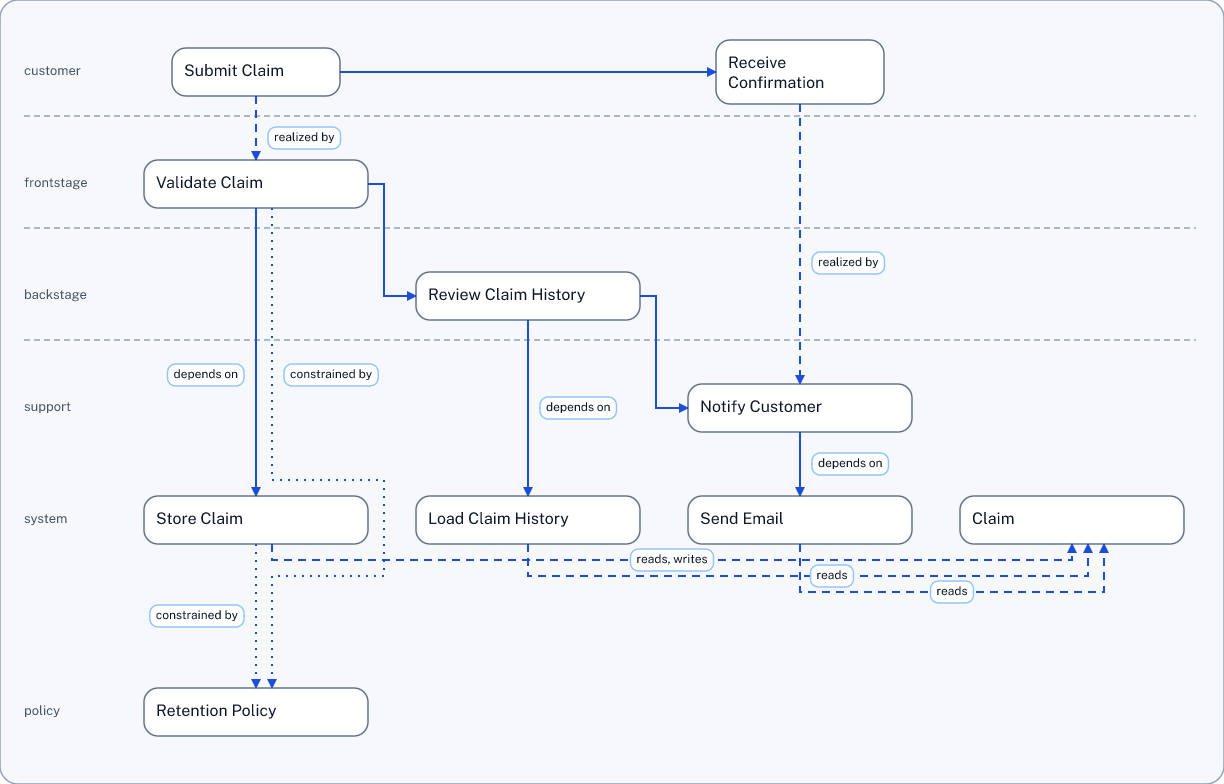
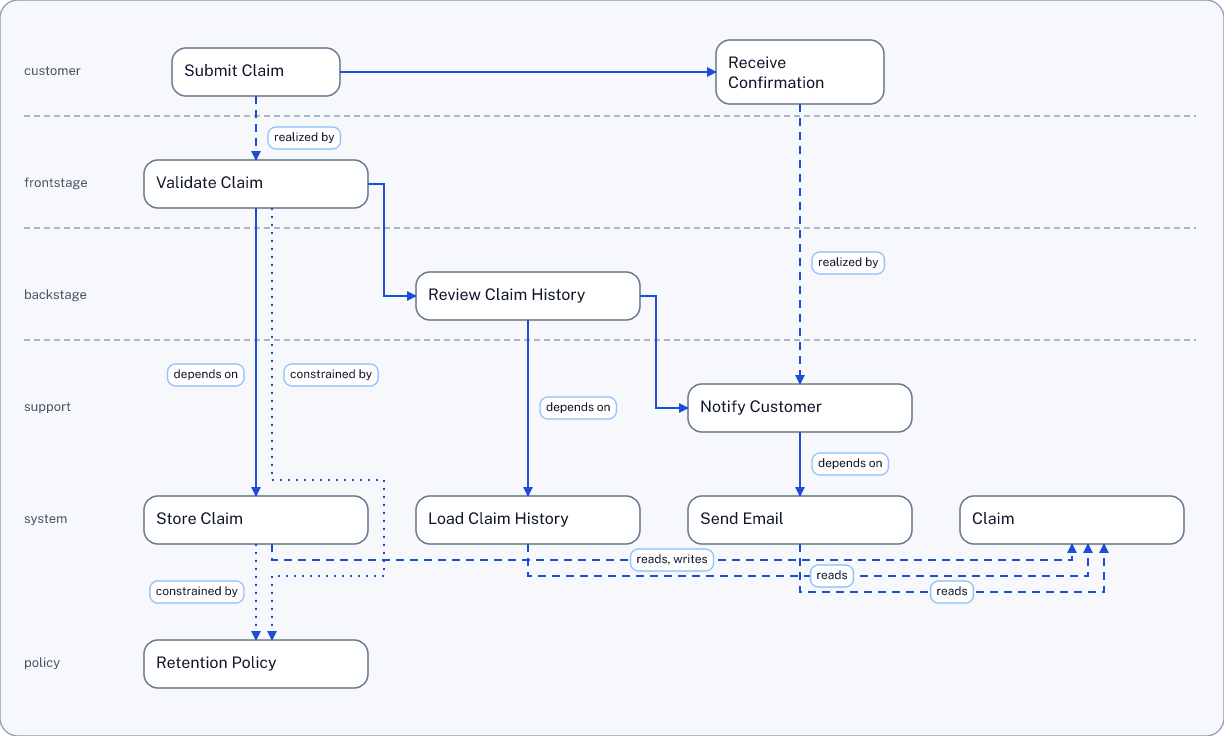
Fixed gutter spacing bug

diff --git a/src/renderer/staged/serviceBlueprintRouting.ts b/src/renderer/staged/serviceBlueprintRouting.ts
@@ -1533,6 +1533,38 @@ function buildGutterRects(
   return rects;
 }
 
+function resolveExpandedBundleLimit(
+  rect: GutterRect,
+  index: PositionedBlueprintIndex,
+  globalGutterState: ServiceBlueprintGlobalGutterState
+): number {
+  if (rect.kind === "node_bottom" && rect.laneOrder !== undefined) {
+    const nextRowTop = getNextValue(index.rowTopByOrder, rect.laneOrder);
+    if (nextRowTop !== undefined) {
+      return roundMetric(nextRowTop);
+    }
+    return roundMetric(
+      (index.rowBottomByOrder.get(rect.laneOrder) ?? (rect.y + rect.height))
+      + (globalGutterState.laneExpansions[rect.laneOrder] ?? 0)
+    );
+  }
+
+  if (rect.kind === "node_right" && rect.columnOrder !== undefined) {
+    const nextColumnLeft = getNextValue(index.columnLeftByOrder, rect.columnOrder);
+    if (nextColumnLeft !== undefined) {
+      return roundMetric(nextColumnLeft);
+    }
+    return roundMetric(
+      (index.columnRightByOrder.get(rect.columnOrder) ?? (rect.x + rect.width))
+      + (globalGutterState.columnExpansions[rect.columnOrder] ?? 0)
+    );
+  }
+
+  return rect.kind === "node_bottom"
+    ? roundMetric(rect.y + rect.height)
+    : roundMetric(rect.x + rect.width);
+}
+
 function buildGutterOccupancyForIntersection(
   connectorId: string,
   segment: RouteSegmentDetail,
@@ -3045,7 +3077,7 @@ function buildGutterLocalBundleResolution(
       }
 
       if (rect.kind === "node_bottom" && claim.laneOrder !== undefined) {
-        const availableLimit = roundMetric(rect.y + rect.height);
+        const availableLimit = resolveExpandedBundleLimit(rect, index, globalGutterState);
         const overflow = roundMetric(assignedCoordinate - availableLimit);
         if (overflow > 0) {
           requiredLaneExpansions[claim.laneOrder] = roundUpToSeparationDistance(
@@ -3054,7 +3086,7 @@ function buildGutterLocalBundleResolution(
         }
       }
       if (rect.kind === "node_right" && claim.columnOrder !== undefined) {
-        const availableLimit = roundMetric(rect.x + rect.width);
+        const availableLimit = resolveExpandedBundleLimit(rect, index, globalGutterState);
         const overflow = roundMetric(assignedCoordinate - availableLimit);
         if (overflow > 0) {
           requiredColumnExpansions[claim.columnOrder] = roundUpToSeparationDistance(

diff --git a/tests/stagedServiceBlueprint.spec.ts b/tests/stagedServiceBlueprint.spec.ts
@@ -469,7 +469,8 @@ describe("staged service_blueprint", () => {
     );
     const step3Sa020 = findNestedPositionedItem(routingDebug.step3PositionedScene.root.children, "SA-020");
     const finalSa020Node = findNestedPositionedItem(rendered.positionedScene.root.children, "SA-020");
-    if (!step3Sa020 || !finalSa020Node) {
+    const finalPl020Node = findNestedPositionedItem(rendered.positionedScene.root.children, "PL-020");
+    if (!step3Sa020 || !finalSa020Node || !finalPl020Node) {
       throw new Error("Could not resolve SA-020 for obstacle-clearance assertions.");
     }
     expect(step2ConstrainedBy.route.points).toHaveLength(2);
@@ -537,6 +538,9 @@ describe("staged service_blueprint", () => {
     expect(finalConstrainedBy.route.points[3]!.y).toBeGreaterThan(finalReadsWrites.route.points[1]!.y);
     expect(finalConstrainedBy.route.points[3]!.y - finalReadsWrites.route.points[1]!.y).toBe(16);
     expect(finalReadsWrites.route.points[1]!.y).toBeGreaterThan(finalSaConstrainedBy.from.y);
+    expect(routedStages.final.globalGutterState.laneExpansions[4]).toBe(32);
+    expect(routedStages.final.nodeGutters.find((gutter) => gutter.nodeId === "SA-020")?.bottomAvailable).toBe(76);
+    expect(finalPl020Node.y - (finalSa020Node.y + finalSa020Node.height)).toBe(96);
 
     const saBottomBundleOccupancy = routedStages.final.gutterOccupancy.filter((occupancy) =>
       occupancy.key === "node:SA-020:bottom" && occupancy.axis === "horizontal"
